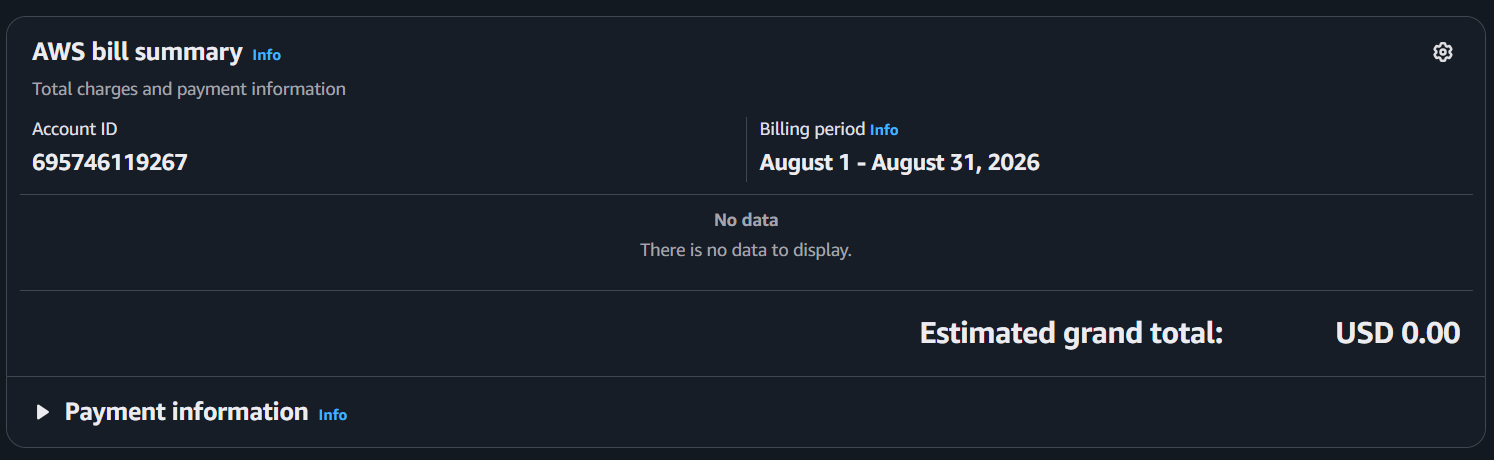
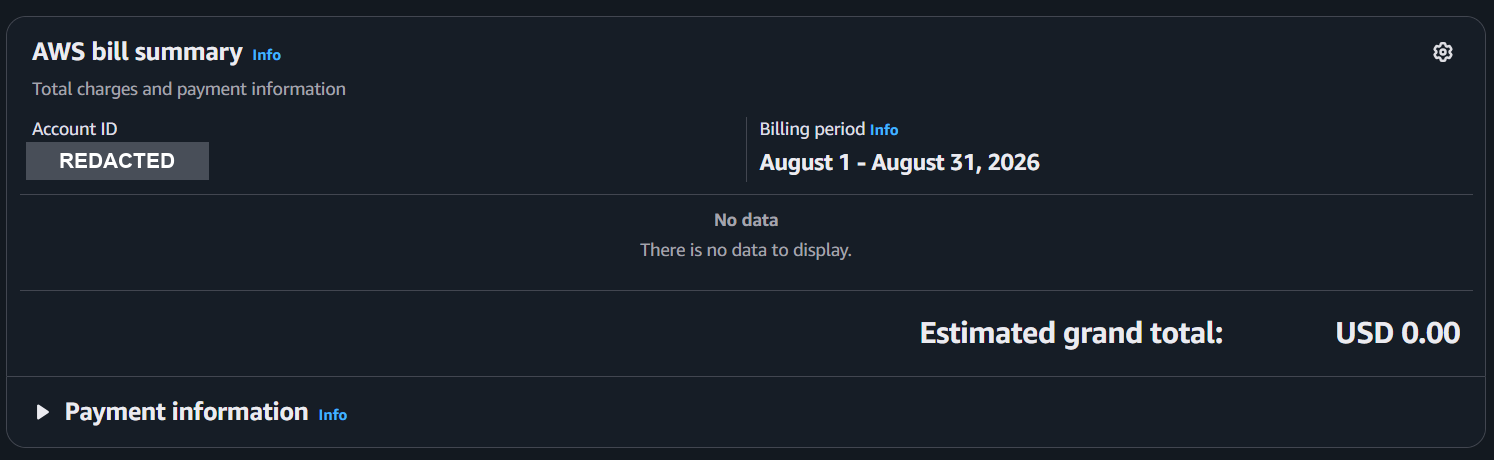
chore: redact AWS Account ID from billing screenshot
Mask the account number in screenshot_aws_billing.png and note the redaction
in the report. All billing evidence (period, no-data notice, estimated grand
total) remains visible.

Changed region(s): [[0.0, 0.3043, 0.1539, 0.3957]]

diff --git a/BaoCao_Lab16_2A202601367_PhamHaiDang.md b/BaoCao_Lab16_2A202601367_PhamHaiDang.md
@@ -32,7 +32,7 @@
 | 1 | Terminal chạy `python3 benchmark.py` — bảng kết quả benchmark (ảnh bị cắt phần trên của bảng; đầy đủ 10 metrics xem ở screenshot #2) | `screenshot_benchmark_results.png` |
 | 2 | Nội dung file `benchmark_result.json` trên Compute Node — đầy đủ 10 metrics | `screenshot_benchmark_json.png` |
 | 3 | Tài nguyên RAM (`free -h`) và Network (`ip -s link`) | `screenshot_resource_usage.png` |
-| 4 | AWS Billing Dashboard — bill summary kỳ 08/2026 | `screenshot_aws_billing.png` |
+| 4 | AWS Billing Dashboard — bill summary kỳ 08/2026 (Account ID đã được che vì lý do bảo mật) | `screenshot_aws_billing.png` |
 
 ---
 
